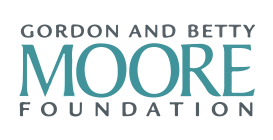
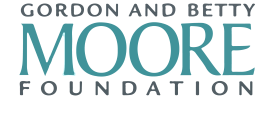
fix styles in footer - make responsive with bootstrap

diff --git a/geonode/templates/index.html b/geonode/templates/index.html
@@ -502,35 +502,40 @@
         </div>
     </div>
 </section>  -->
-<section id="partner_tnc">
-    <div class="row justify-content-md-center" style="height:20%;">
-        <div class="col-md-2 text-left"></div>    
-        <div class="col-md-3 text-left">
-            <div class="text-center">
-            <h3 class="colorLeftInstructionsR">{% trans "Developed by:" %}</h3> 
-            </div>
-            <div class="text-left">
-            <img src="{% static 'geonode/img/LogoTNC2.png' %}" alt="The nature Conservancy" style="max-height: 100px;">
+<section id="partner_tnc" style="padding-bottom:15px;">
+    <div class="row justify-content-md-center">
+        <div class="col-md-6 text-left">
+            <div class="col-md-2 text-left"></div>
+            <div class="col-md-4 text-left">
+                <div class="text-center">
+                    <h3 class="colorLeftInstructionsR">{% trans "Developed by:" %}</h3> 
+                </div>                
             </div>
         </div>
-        
-            <div class="col-md-6 text-left">
-                <div class="text-center">
-                    <h3 class="colorLeftInstructionsR">{% trans "Whith the support of:" %}</h3> 
-                </div>
-            
-            <div class="col-md-3 text-left align-items-center">    
-                <div class="text-left">    
-                    <img src="{% static 'geonode/img/fundacionmoore.png' %}" alt="Moore fundation" style="max-height: 100px;">
-                </div>
-            </div>
-            <div class="col-md-9 text-left align-items-center" style="height:50%">
-                <br>
-                <p>{% trans "This website is funded by the Gordon and Betty Moore Foundation through Grant GBMF7100 to support the work of WaterProof" %}</p>            
-            </div>
-        
+        <div class="col-md-6 text-left">
+            <h3 class="colorLeftInstructionsR with-support-of">{% trans "Whith the support of:" %}</h3>             
         </div>
     </div>
+    <div class="row justify-content-md-center">
+        <div class="col-md-6 text-left">
+            <div class="col-md-2 text-left"></div>
+            <div class="col-md-4 text-left">                
+                <div class="text-left">
+                    <img src="{% static 'geonode/img/LogoTNC2.png' %}" style="width:100%; height:80%;" alt="The Nature Conservancy">
+                </div>
+            </div>
+        </div>
+        <div class="col-md-6 text-left">
+            <div class="row justify-content-md-center">
+                <div class="col-md-4 text-left align-items-center">    
+                    <img src="{% static 'geonode/img/fundacionmoore.png' %}" style="width:75%; height:100%;" alt="Moore fundation">                
+                </div>
+                <div class="col-md-8 text-left align-items-center">
+                    {% trans "This website is funded by the Gordon and Betty Moore Foundation through Grant GBMF7100 to support the work of WaterProof" %}
+                </div>
+            </div>
+        </div>
+    </div>    
 </section> 
 
 <!--search-city modal-->

diff --git a/geonode/static/geonode/css/base.css b/geonode/static/geonode/css/base.css
@@ -9378,3 +9378,7 @@ top:50px;
   right: 2px;
 }
 
+.with-support-of{
+  margin-left: 12px;
+}
+
